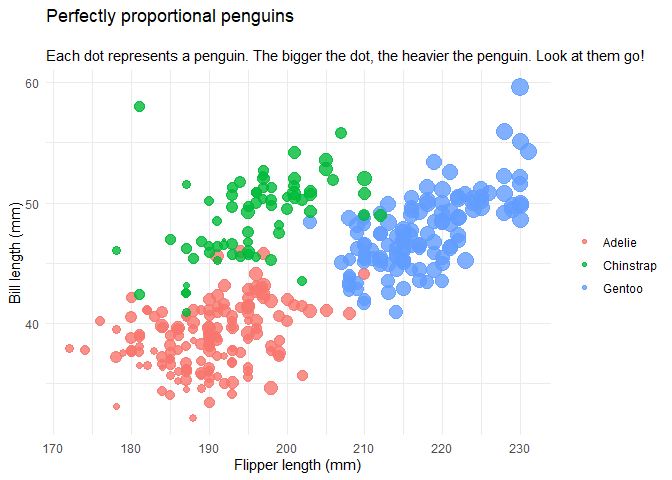
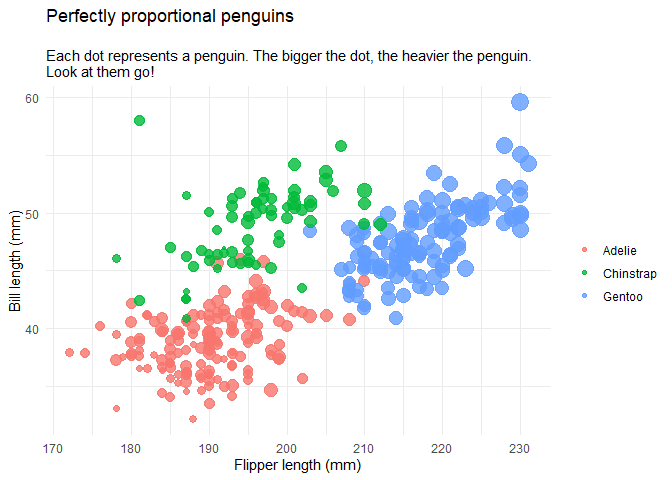
Simplified the readme

diff --git a/README.md b/README.md
@@ -25,23 +25,25 @@ need to have installed the `remotes` package. To do that, use
 Sure! Here goes. To make the examples easy to read, I will use
 recognised colour names rather than hex codes or rgb values.
 
-### Generate palettes
+### Generate monochrome palettes with `generate_palette()`
 
 ``` r
 library(monochromeR)
 
-generate_palette("purple", modification = "go_lighter", n_colours = 5, view_palette = T)
+generate_palette("purple", modification = "go_lighter", 
+                 n_colours = 5, view_palette = T)
 ```
 
 ![](README_files/figure-gfm/unnamed-chunk-1-1.png)<!-- -->
 
     ## [1] "#A020F0" "#B34CF3" "#C679F6" "#D9A5F9" "#ECD2FC"
 
-The functions allow for British/NZ spelling and US spelling of
+The functions allow for British spelling and US spelling of
 colour/color.
 
 ``` r
-generate_palette("purple", modification = "go_darker", n_colors = 5, view_palette = T, view_labels = F)
+generate_palette("purple", modification = "go_darker", 
+                 n_colors = 5, view_palette = T, view_labels = F)
 ```
 
 ![](README_files/figure-gfm/unnamed-chunk-2-1.png)<!-- -->
@@ -53,7 +55,8 @@ are printed in the console when the function is called on its own, and
 can also be assigned to an object for later use.
 
 ``` r
-purple_palette <- generate_palette("purple", modification = "go_both_ways", n_colours = 20, view_palette = T, view_labels = F)
+purple_palette <- generate_palette("purple", modification = "go_both_ways", 
+                                   n_colours = 20, view_palette = T, view_labels = F)
 ```
 
 ![](README_files/figure-gfm/unnamed-chunk-3-1.png)<!-- -->
@@ -70,28 +73,16 @@ And just because it was easy to implement, this function can also be
 used to blend two colours together:
 
 ``` r
-generate_palette("purple", blend_colour = "green", n_colours = 10, view_palette = T, view_labels = F)
+generate_palette("purple", blend_colour = "green", 
+                 n_colours = 10, view_palette = T, view_labels = F)
 ```
-
-    ## 
-    ## Because you supplied a blend_colour, the modification variable is set to "blend".
-    ## To use other modification options ("go_darker", "go_lighter" or "go_both_ways"),
-    ## leave blend_colour as NULL.
 
 ![](README_files/figure-gfm/unnamed-chunk-4-1.png)<!-- -->
 
     ##  [1] "#A020F0" "#9133DA" "#8347C5" "#755BB0" "#676F9A" "#588385" "#4A9670"
     ##  [8] "#3CAA5A" "#2EBE45" "#20D230"
 
-### Why not just use the `alpha` aesthetic?
-
-Having all solid colours allow us to use `alpha` more interestingly (for
-example, to highlight distance from model predictions), and allows
-better colour control when the background of the plot isn’t white.
-
-### The functions that make up `generate_palette()` are also useful in and of themselves
-
-#### Get the hex colour code from an rgb or rgba vector
+### Get the hex colour code from an rgb or rgba vector
 
 ``` r
 # Get hex code from rgb
@@ -122,9 +113,9 @@ view_palette(c(wesanderson::wes_palettes$Moonrise1,
 
 ![](README_files/figure-gfm/unnamed-chunk-6-2.png)<!-- -->
 
-## Pulling it all together
+## Worked examples: using `monochromeR` within datavisualisations
 
-### Simple plot example
+### Using `generate_palette` within `scale_colour_manual()`
 
 Here’s a simple example, using `{monochromeR}`’s `generate_palette()` to
 create a colour palette on the fly within `ggplot()`.
@@ -140,7 +131,7 @@ penguin_plot <- palmerpenguins::penguins %>%
              alpha = 0.8) +
  
   labs(title = "Perfectly proportional penguins", 
-       subtitle = "\nEach dot represents a penguin. The bigger the dot, the heavier the penguin. Look at them go!",
+       subtitle = "\nEach dot represents a penguin. The bigger the dot, the heavier the penguin. \nLook at them go!",
        x = "Flipper length (mm)",
        y = "Bill length (mm)") +
    scale_size(guide = "none") +
@@ -163,16 +154,13 @@ penguin_plot
 
 ![](README_files/figure-gfm/unnamed-chunk-7-2.png)<!-- -->
 
-### Creating a unified aesthetic across all aspects of the plot
+### Creating a unified aesthetic across all aspects of the dataviz
 
 Here’s an example using `{monochromeR}`’s `generate_palette()` to
 generate all the colours used in the plot, resulting in a more polished
 look with minimal effort.
 
 ``` r
-library(tidyverse)
-library(monochromeR)
-
 penguin_palette <- generate_palette(c(15, 75, 99), 
                                     modification = "go_both_ways", 
                                     n_colours = 8,
@@ -190,16 +178,17 @@ penguin_plot +
           panel.grid = element_line(colour = penguin_palette[7]),
           panel.background = element_rect(fill = penguin_palette[8], 
                                           colour = penguin_palette[8]),
-         legend.position = "top",
           text = element_text(colour = penguin_palette[3]),
           axis.text = element_text(colour = penguin_palette[3]),
-          plot.title = element_text(colour = penguin_palette[1], hjust = 0, size = 18),
-          plot.subtitle = element_text(colour = penguin_palette[2], hjust = 0, size = 10))
+          plot.title = element_text(colour = penguin_palette[1], hjust = 0),
+          plot.subtitle = element_text(colour = penguin_palette[2], hjust = 0))
 ```
 
 ![](README_files/figure-gfm/unnamed-chunk-8-2.png)<!-- -->
 
-## Finally, here are some resources I found helpful in making this package
+## Extra resources
+
+### Here are some resources I found helpful in making this package
 
 -   **For the mechanics of how to make a package**: [Your first R
     package in 1
@@ -211,9 +200,10 @@ penguin_plot +
     package](https://github.com/GuangchuangYu/hexSticker) by Guangchuang
     Yu
 
-## Bugs and queries
+### Bugs and queries
 
-I’ve done my best to make the error messages easy to understand. If you
-come across a bug or an error message that doesn’t make sense, or if
-there’s something you think would make this package better, [please let
-me know](https://github.com/cararthompson/monochromeR/issues)!
+I’ve done my best to make the functions in this package user-friendly,
+and to make the error messages easy to understand. If you come across a
+bug or an error message that doesn’t make sense, or if there’s something
+you think would make this package better, [please let me
+know](https://github.com/cararthompson/monochromeR/issues)!
